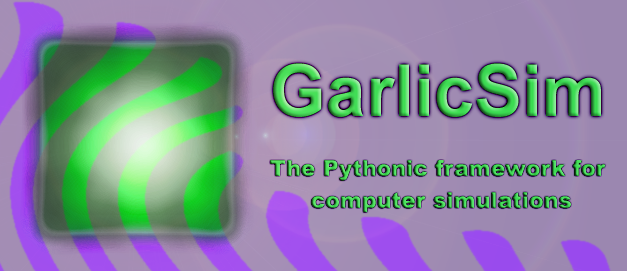
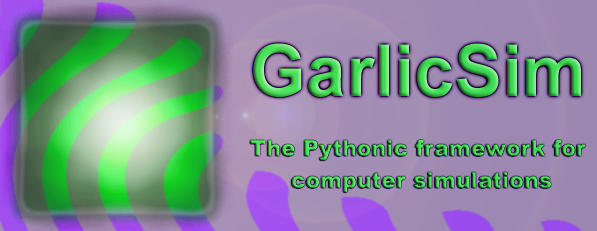
-

diff --git a/garlicsim_wx/garlicsim_wx/widgets/misc/about_dialog/about_dialog.py b/garlicsim_wx/garlicsim_wx/widgets/misc/about_dialog/about_dialog.py
@@ -28,9 +28,7 @@ class AboutDialog(CuteDialog):
     '''An About dialog for GarlicSim.'''
     def __init__(self, frame):
    
-        wx.Dialog.__init__(self, frame, title='About GarlicSim',
-                           size=(628, 600))
-        CuteDialog.__init__(self, frame, skip_dialog_init=True)
+        CuteDialog.__init__(self, frame, title='About GarlicSim')
         
         self.SetDoubleBuffered(True)
         
@@ -46,10 +44,10 @@ class AboutDialog(CuteDialog):
             )
         )
         
-        self.bitmap_viewer = BitmapViewer(self, size=(627, 271))
+        self.bitmap_viewer = BitmapViewer(self, size=(597, 231))
         v_sizer.Add(self.bitmap_viewer, 0)
         
-        self.html_window = wx.html.HtmlWindow(self, size=(628, 270))
+        self.html_window = wx.html.HtmlWindow(self, size=(597, 250))
         v_sizer.Add(self.html_window, 0)
         
         foreground_color_in_hex = wx_tools.colors.wx_color_to_html_color(
@@ -63,6 +61,13 @@ class AboutDialog(CuteDialog):
         self.html_window.SetPage(
             '''
             <html>
+              <head>
+                <style type="text/css">
+                  body {
+                    font-size: 80%%;
+                  }
+                </style>
+              </head>
               <body bgcolor="%s" color="%s">
                 <div align="center"> <font size="1">
                   &copy; 2009-2011 Ram Rachum (a.k.a. cool-RR)
@@ -110,19 +115,17 @@ class AboutDialog(CuteDialog):
         
         self.button_sizer = button_sizer = wx.StdDialogButtonSizer()
         self.ok_button = wx.Button(self, wx.ID_OK,
-                                   "Let's get back to simulating!")
+                                   "&Let's get back to simulating!")
         self.ok_button.SetDefault()
         button_sizer.SetAffirmativeButton(self.ok_button)
         self.Bind(wx.EVT_BUTTON, self.on_ok, self.ok_button)
         button_sizer.AddButton(self.ok_button)
         button_sizer.Realize()
         button_sizer.SetMinSize((500, -1))
-        v_sizer.Add(button_sizer, 0)
+        v_sizer.Add(button_sizer, 0, wx.BOTTOM, border=10)
         
-        
-        self.SetSizer(v_sizer)
+        self.SetSizerAndFit(v_sizer)
         self.Layout()
-
         
         self.timer = garlicsim_wx.general_misc.cute_timer.CuteTimer(self)
         self.timer.Start(40, oneShot=True)
@@ -150,6 +153,10 @@ class AboutDialog(CuteDialog):
         self.bitmap_viewer.set_bitmap(wx.BitmapFromImage(new_image))
         self.timer.Start(40, oneShot=True)
 
+        
+    def ShowModal(self):
+        CuteDialog.ShowModal(self)
+        self.SetFocus()
         
     def EndModal(self, *args, **kwargs):
         self.timer.Stop()

diff --git a/garlicsim_wx/garlicsim_wx/frame/frame.py b/garlicsim_wx/garlicsim_wx/frame/frame.py
@@ -23,7 +23,7 @@ from garlicsim.general_misc.temp_value_setters import TempRecursionLimitSetter
 from garlicsim_wx.general_misc import thread_timer
 from garlicsim_wx.general_misc import misc_tools
 from garlicsim_wx.general_misc import wx_tools
-from garlicsim_wx.widgets.general_misc.cute_window import CuteWindow
+import garlicsim_wx.widgets.general_misc.cute_frame
 
 import garlicsim
 from garlicsim_wx.gui_project import GuiProject
@@ -40,19 +40,21 @@ wildcard_text = ('GarlicSim Simulation Pickle (*.gssp)|*.gssp|'
                  'All files (*)|*')
 
 
-class Frame(wx.Frame, CuteWindow):
+class Frame(garlicsim_wx.widgets.general_misc.cute_frame.CuteFrame):
     '''
     The main window of `garlicsim_wx`.
     
     This window allows the user to create and manipulate gui projects.
     '''
     def __init__(self, *args, **kwargs):
-        wx.Frame.__init__(self, *args, **kwargs)
+        garlicsim_wx.widgets.general_misc.cute_frame.CuteFrame.__init__(
+            self,
+            *args,
+            **kwargs
+        )
         
         self.SetBackgroundStyle(wx.BG_STYLE_CUSTOM)
-        self.set_good_background_color()
         
-        self.SetDoubleBuffered(True)
         self.SetIcons(garlicsim_wx.misc.icon_bundle.get_icon_bundle())
         
         self.Bind(wx.EVT_CLOSE, self.on_close)

diff --git a/garlicsim_wx/garlicsim_wx/widgets/general_misc/cute_dialog.py b/garlicsim_wx/garlicsim_wx/widgets/general_misc/cute_dialog.py
@@ -10,17 +10,11 @@ See its documentation for more info.
 import wx
 
 from garlicsim_wx.general_misc import wx_tools
-from .cute_window import CuteWindow
+from .cute_top_level_window import CuteTopLevelWindow
 
 
-class CuteDialog(wx.Dialog, CuteWindow):
+class CuteDialog(wx.Dialog, CuteTopLevelWindow):
     '''Improved dialog.'''
-    def __init__(self, *args, **kwargs):
-        if not kwargs.pop('skip_dialog_init', False):
-            wx.Dialog.__init__(self, *args, **kwargs)
-        self.set_good_background_color()
-        self.SetDoubleBuffered(True)
-
         
     def ShowModal(self):
         self.Centre(wx.BOTH)

diff --git a/garlicsim_wx/garlicsim_wx/widgets/general_misc/cute_top_level_window.py b/garlicsim_wx/garlicsim_wx/widgets/general_misc/cute_top_level_window.py
@@ -1,0 +1,21 @@
+# Copyright 2009-2011 Ram Rachum.
+# This program is distributed under the LGPL2.1 license.
+
+'''
+This module defines the `` class.
+
+See its documentation for more information.
+'''
+
+import wx
+
+from .cute_window import CuteWindow
+
+
+class CuteTopLevelWindow(wx.TopLevelWindow, CuteWindow):
+    def __init__(self, *args, **kwargs):
+        if not kwargs.pop('skip_wx_init', False):
+            wx.TopLevelWindow.__init__(self, *args, **kwargs)
+        self.SetExtraStyle(wx.FRAME_EX_CONTEXTHELP)
+        self.set_good_background_color()
+        self.SetDoubleBuffered(True)

diff --git a/garlicsim_wx/garlicsim_wx/widgets/misc/about_dialog/bitmap_viewer/bitmap_viewer.py b/garlicsim_wx/garlicsim_wx/widgets/misc/about_dialog/bitmap_viewer/bitmap_viewer.py
@@ -16,6 +16,7 @@ class BitmapViewer(wx.Panel):
         #self.SetBackgroundStyle(wx.BG_STYLE_CUSTOM)
         self._bitmap = wx.EmptyBitmap(1, 1)
         self.Bind(wx.EVT_PAINT, self.on_paint)
+        self.Bind(wx.EVT_SET_FOCUS, self.on_focus)
     
     def on_paint(self, event):
         '''EVT_PAINT handler.'''
@@ -26,3 +27,7 @@ class BitmapViewer(wx.Panel):
         '''Set the bitmap that the viewer will display.'''
         self._bitmap = bitmap
         self.Refresh()
+        
+    def on_focus(self, event):
+        event.Skip()
+        self.Navigate()

diff --git a/garlicsim_wx/garlicsim_wx/widgets/general_misc/error_dialog.py b/garlicsim_wx/garlicsim_wx/widgets/general_misc/error_dialog.py
@@ -17,5 +17,5 @@ class ErrorDialog(wx.MessageDialog, CuteDialog):
     def __init__(self, parent, message, caption='Error'):
         wx.MessageDialog.__init__(self, parent, message, caption,
                                   wx.OK | wx.ICON_ERROR)
-        CuteDialog.__init__(self, skip_dialog_init=True)
+        CuteDialog.__init__(self, skip_wx_init=True)
         

diff --git a/garlicsim_wx/garlicsim_wx/widgets/general_misc/cute_frame.py b/garlicsim_wx/garlicsim_wx/widgets/general_misc/cute_frame.py
@@ -1,0 +1,15 @@
+# Copyright 2009-2011 Ram Rachum.
+# This program is distributed under the LGPL2.1 license.
+
+'''
+This module defines the `` class.
+
+See its documentation for more information.
+'''
+
+import wx
+
+from .cute_top_level_window import CuteTopLevelWindow
+
+class CuteFrame(wx.Frame, CuteTopLevelWindow):
+    pass

diff --git a/garlicsim_wx/garlicsim_wx/widgets/misc/simpack_selection_dialog/simpack_selection_dialog.py b/garlicsim_wx/garlicsim_wx/widgets/misc/simpack_selection_dialog/simpack_selection_dialog.py
@@ -48,7 +48,6 @@ class SimpackSelectionDialog(CuteDialog):
             title='Choose simulation package',
             size=(950, 550)
         )
-        self.SetExtraStyle(wx.FRAME_EX_CONTEXTHELP)
         
         assert isinstance(frame, garlicsim_wx.Frame)
         self.frame = frame

diff --git a/garlicsim_wx/garlicsim_wx/widgets/misc/about_dialog/__init__.py b/garlicsim_wx/garlicsim_wx/widgets/misc/about_dialog/__init__.py
@@ -1,1 +1,10 @@
+# Copyright 2009-2011 Ram Rachum.
+# This program is distributed under the LGPL2.1 license.
+
+'''
+This package defines the `AboutDialog` class.
+
+See its documentation for more information.
+'''
+
 from .about_dialog import AboutDialog
